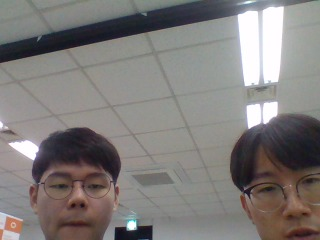
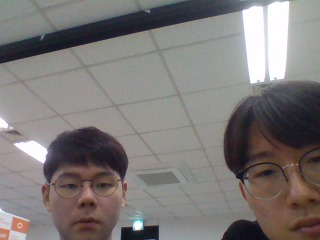
해상도 테스트2

diff --git a/public/index.html b/public/index.html
@@ -52,8 +52,8 @@
     <div class="container">
       <video
         id="video"
-        width="100%"
-        height="240"
+        width="320"
+        height="320"
         autoplay
         muted
         playsinline
